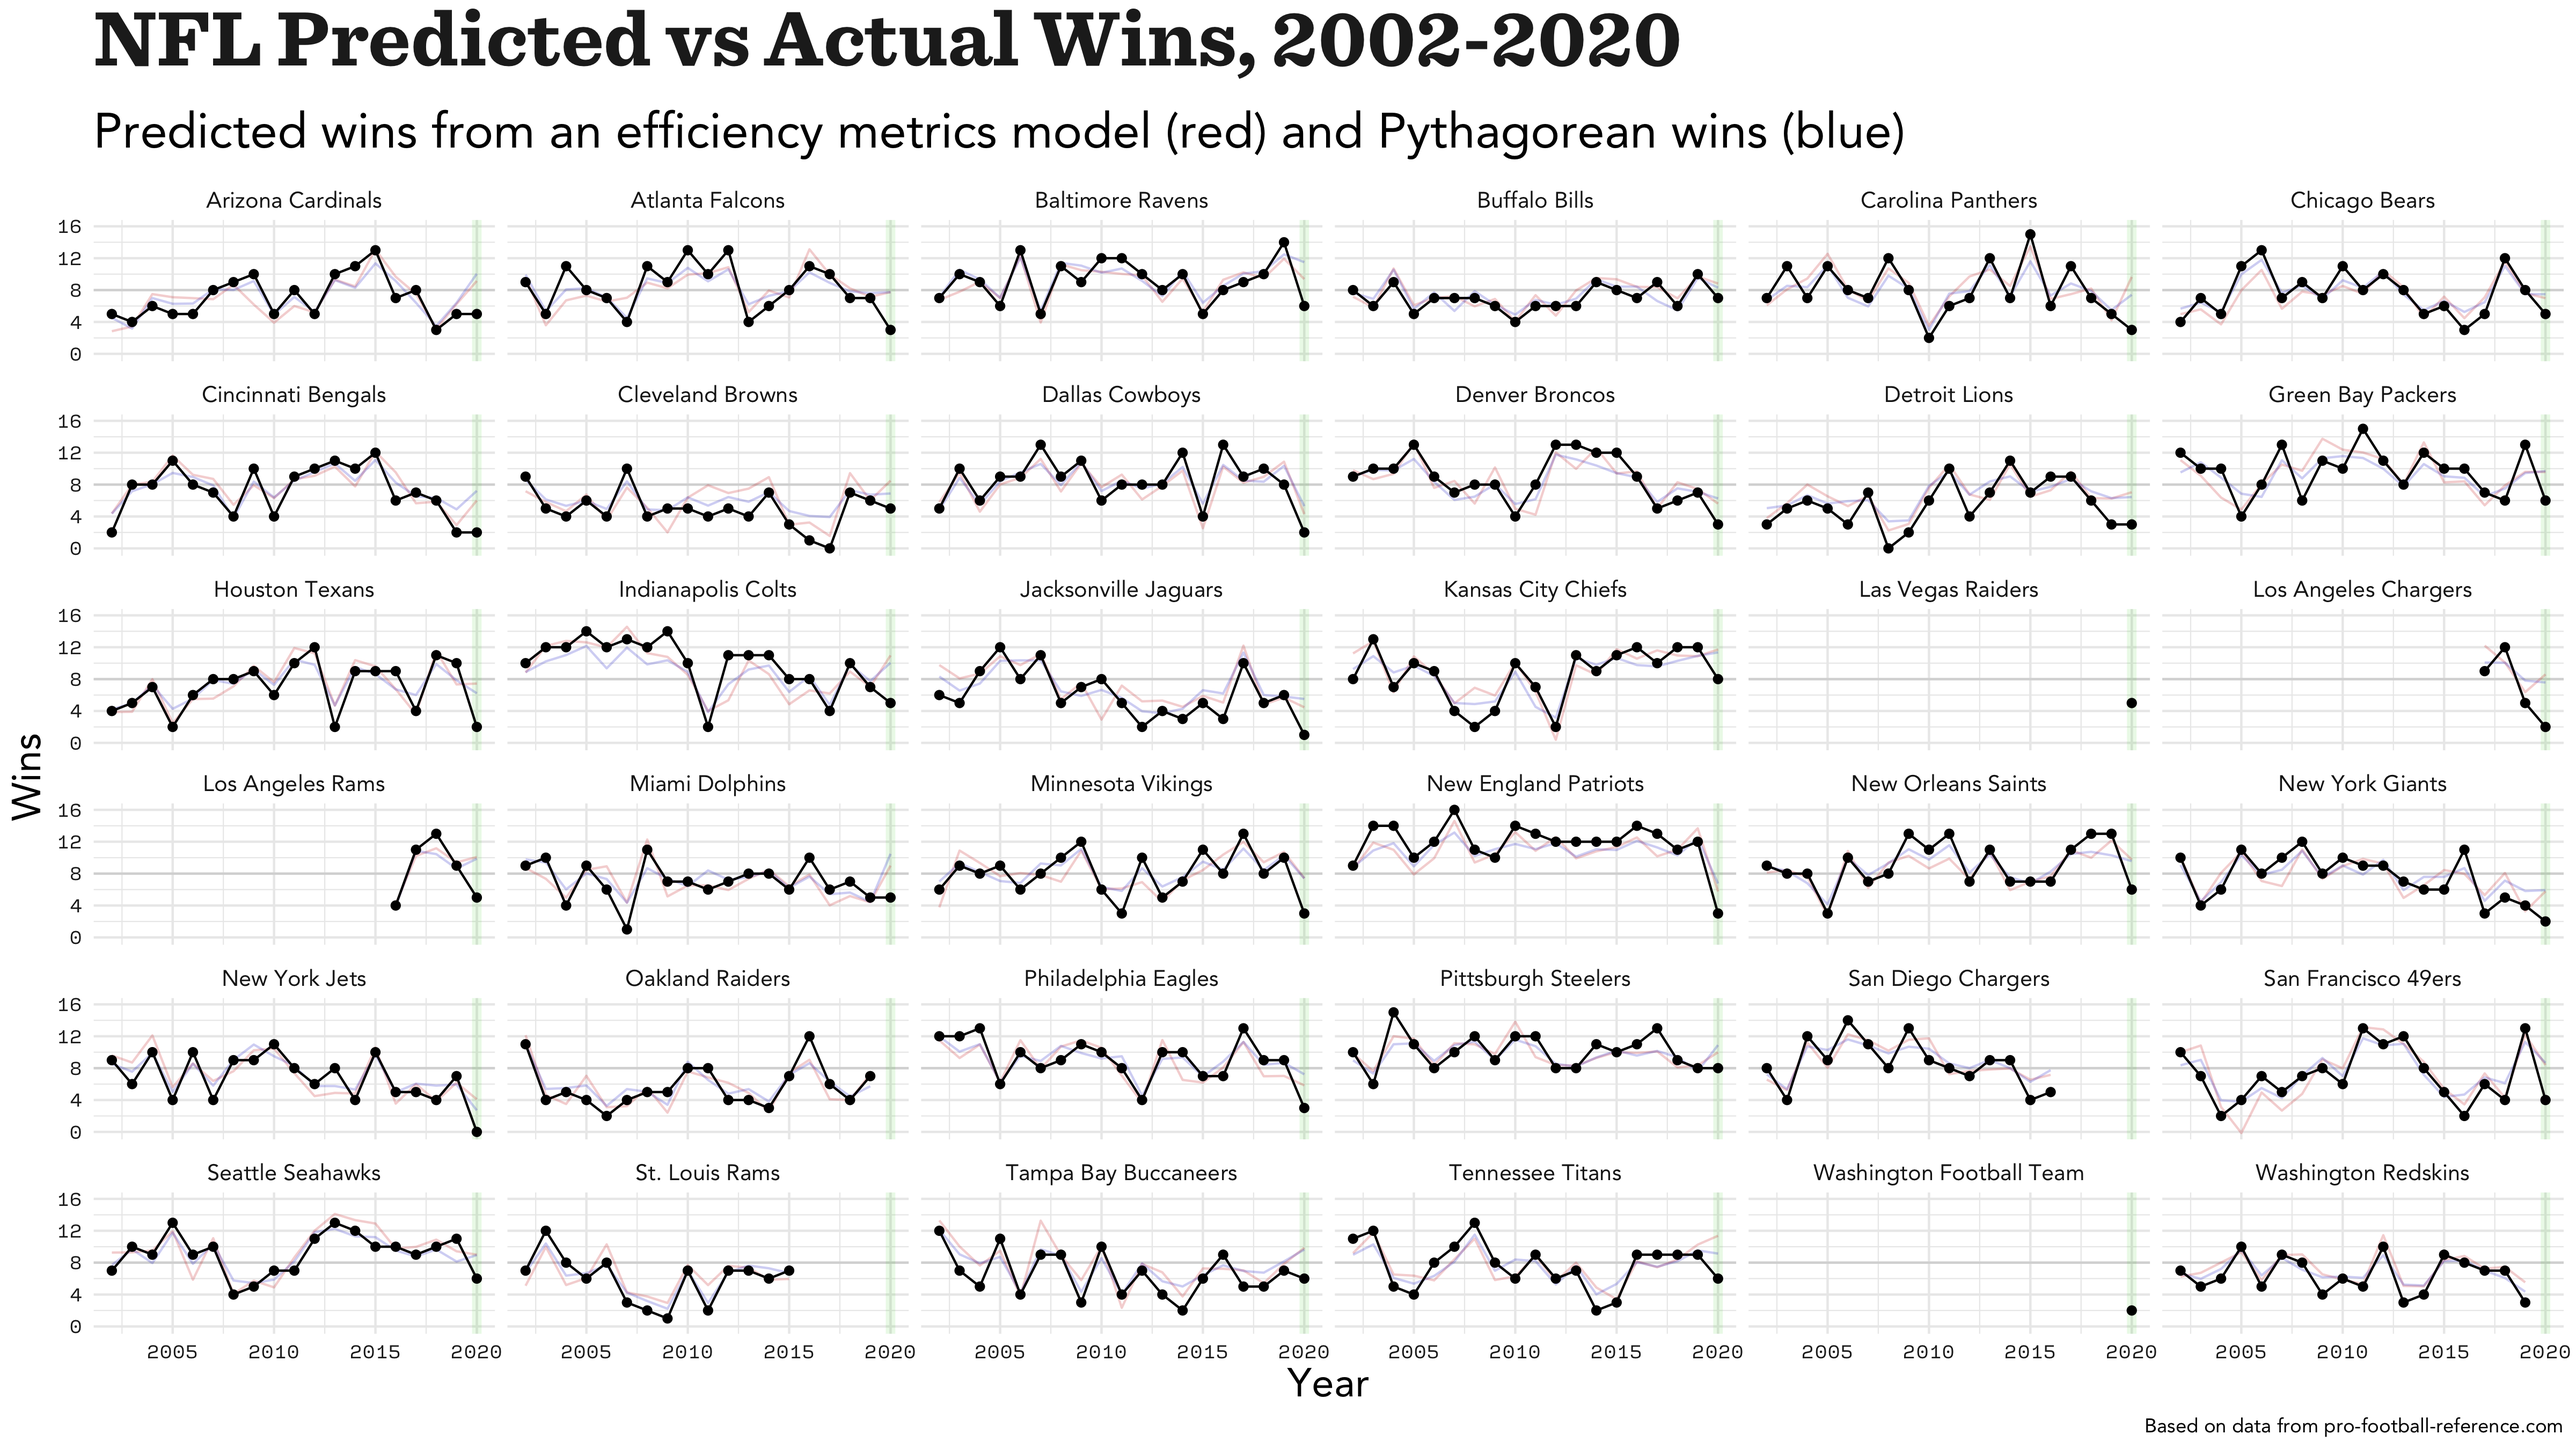
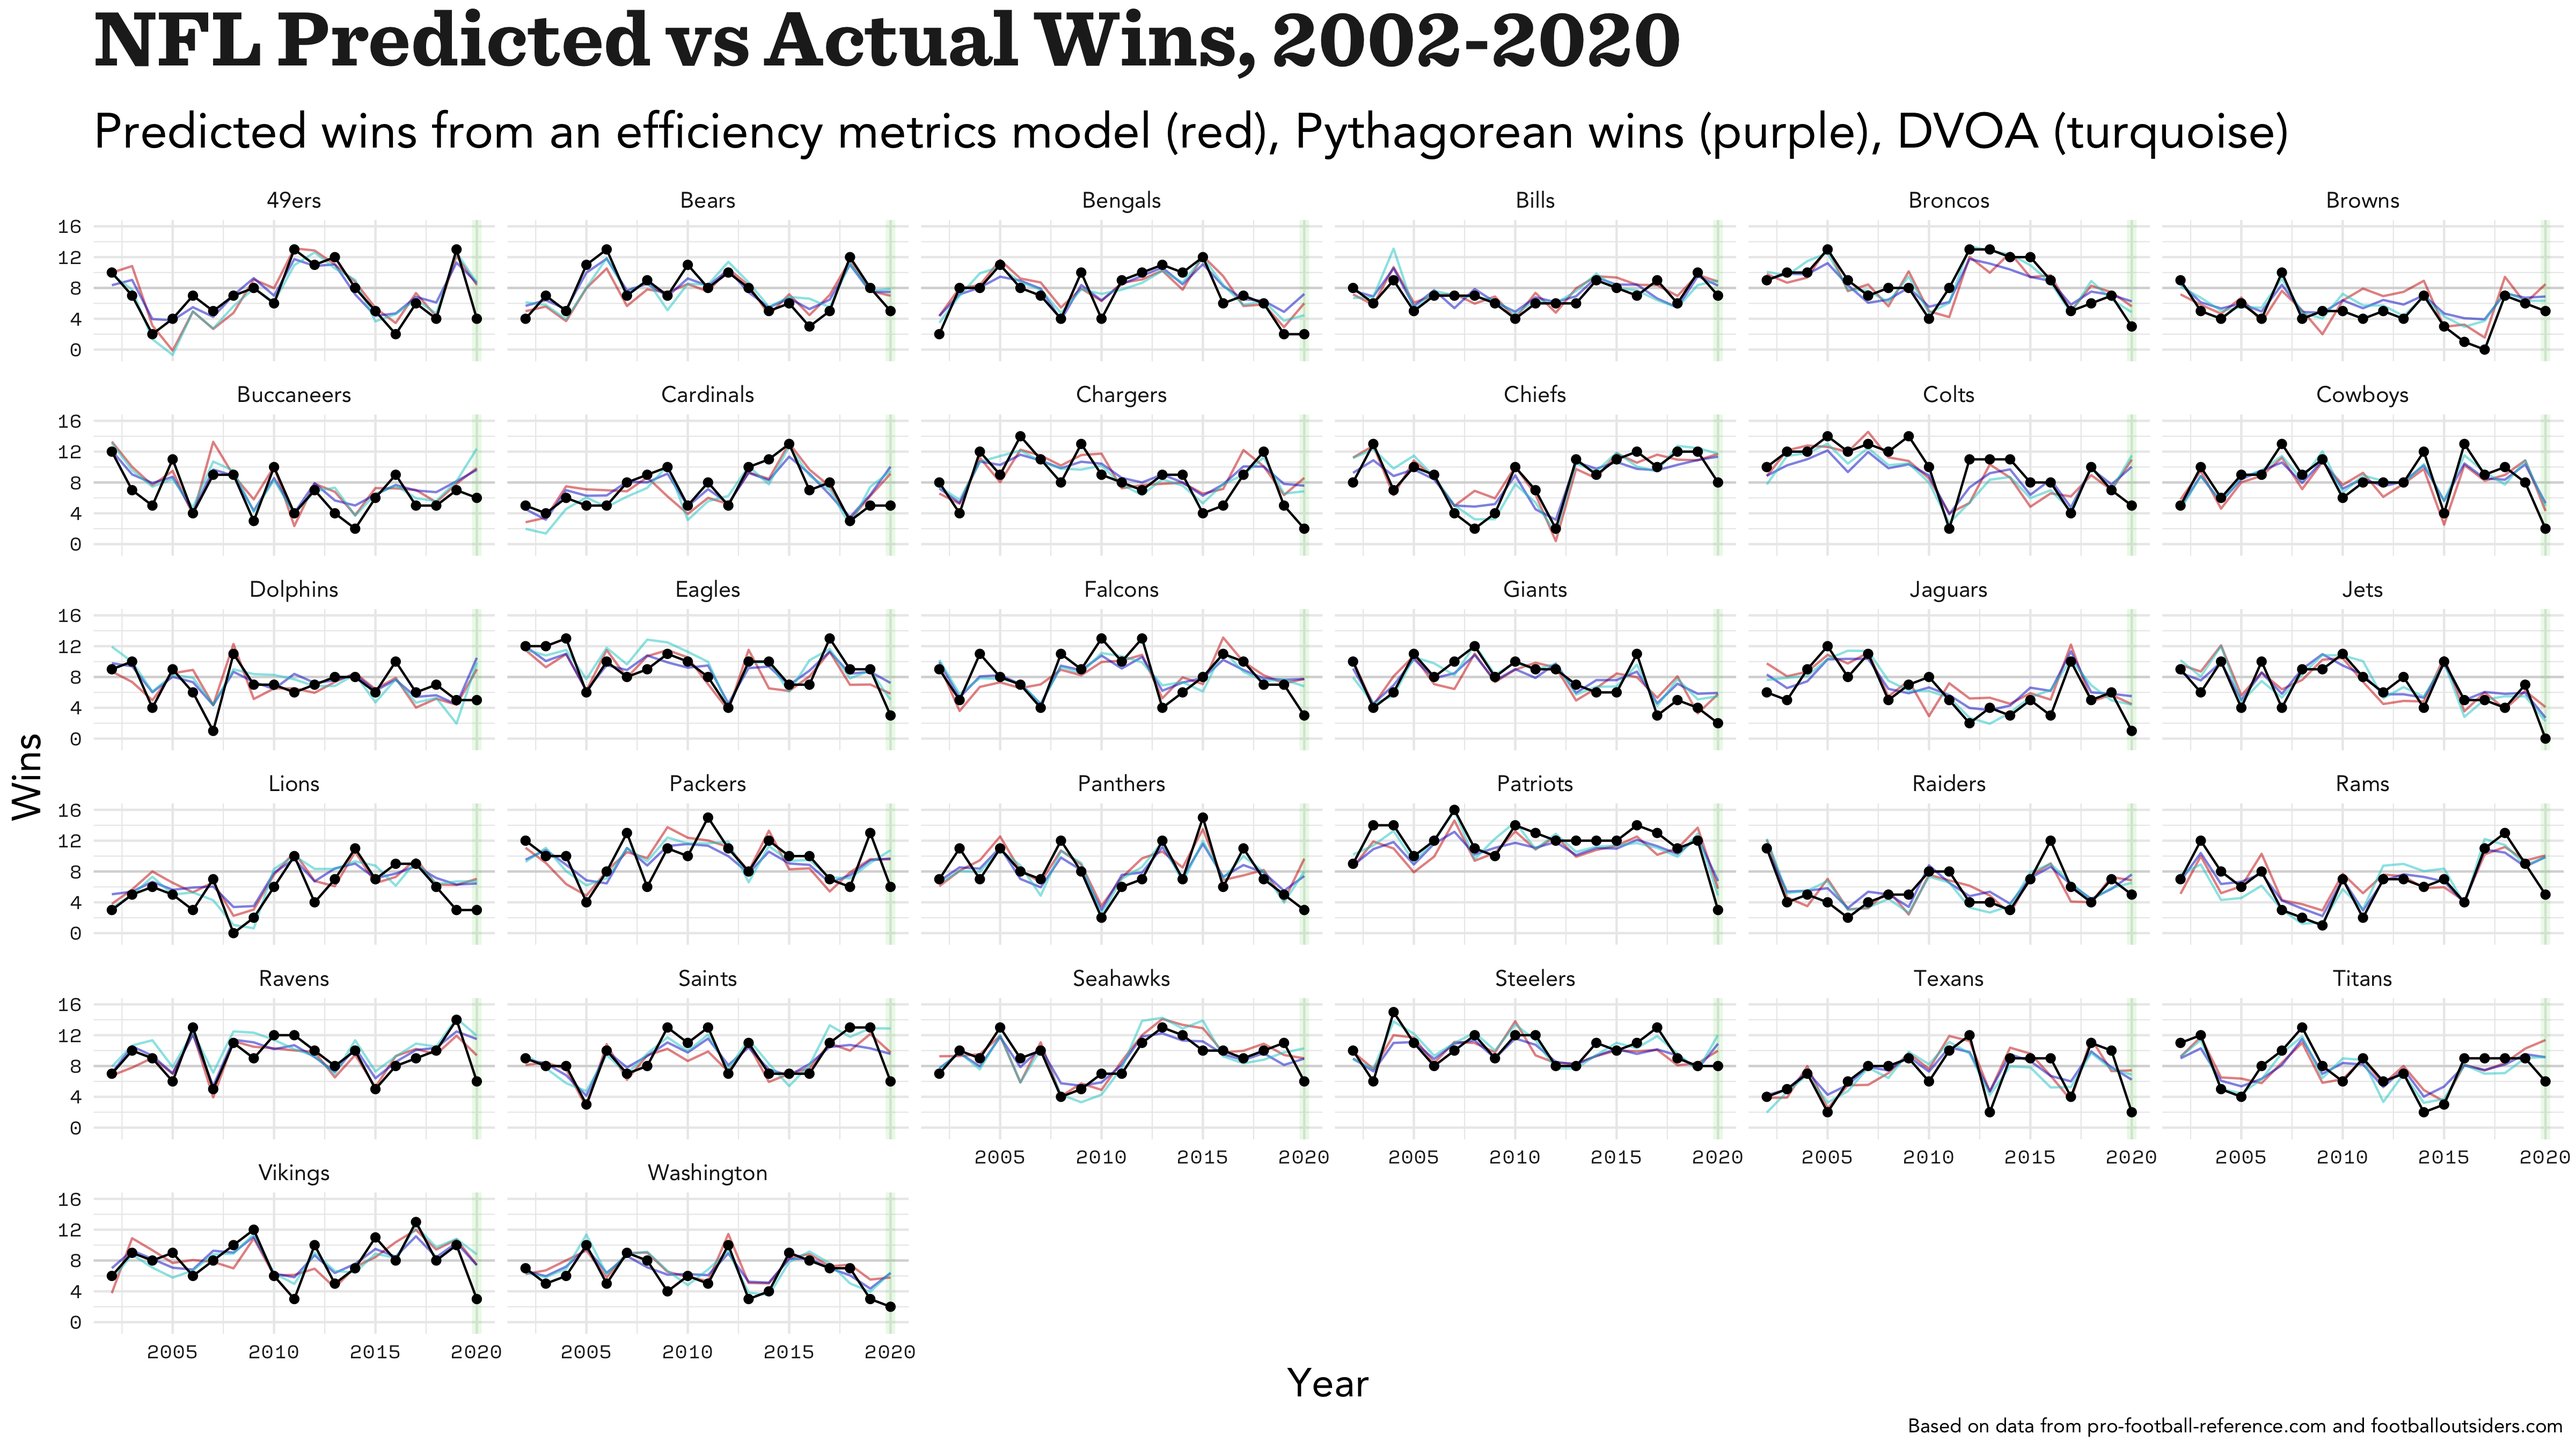
Notes about DVOA

diff --git a/README.md b/README.md
@@ -66,4 +66,7 @@ F-statistic: 46.61 on 9 and 150 DF,  p-value: < 2.2e-16
 
 ## Reference
 
-Data is from [Pro Football Reference](https://www.pro-football-reference.com/).
+Data from:
+
+- [Pro Football Reference](https://www.pro-football-reference.com/)
+- [Football Outsiders](https://www.footballoutsiders.com)
